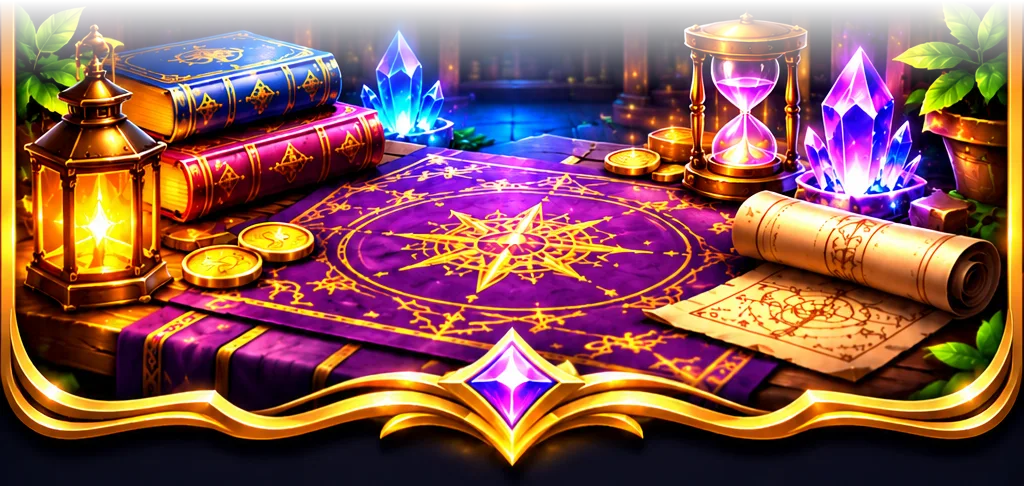
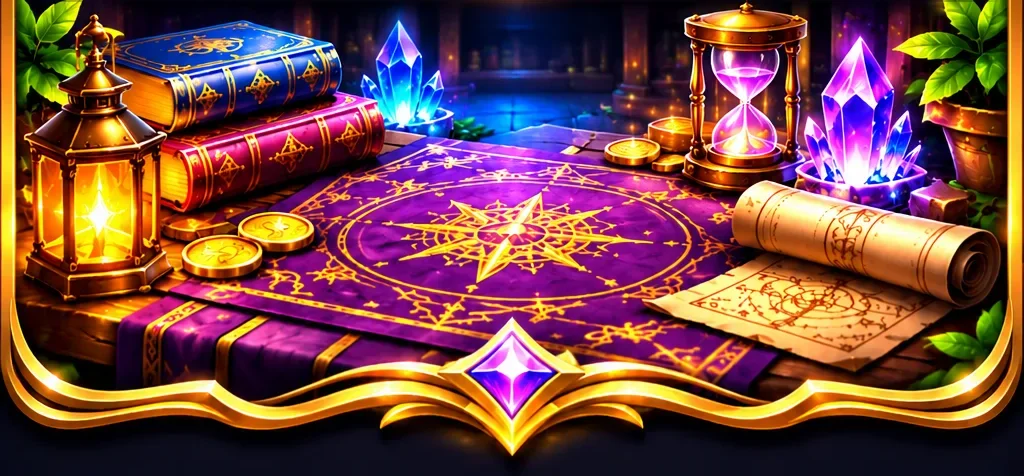
Boutique : la maquette complète sert de fond (cadre doré continu)
Claude-Session: https://claude.ai/code/session_01L5A7b5TFWkvreAmFd6UdR1

diff --git a/sw.js b/sw.js
@@ -1,4 +1,4 @@
-const C="qmqdev-v25";const F=["eq_cr.webp","mi1.webp","mi2.webp","mi3.webp","mi4.webp","mi5.webp","s_trophy.webp","ei_casque_1.webp","ei_casque_2.webp","ei_casque_3.webp","ei_casque_4.webp","ei_casque_5.webp","ei_ceinture_1.webp","ei_ceinture_2.webp","ei_ceinture_3.webp","ei_ceinture_4.webp","ei_ceinture_5.webp","ei_epaules_1.webp","ei_epaules_2.webp","ei_epaules_3.webp","ei_epaules_4.webp","ei_epaules_5.webp","ei_gants_1.webp","ei_gants_2.webp","ei_gants_3.webp","ei_gants_4.webp","ei_gants_5.webp","ei_jambes_1.webp","ei_jambes_2.webp","ei_jambes_3.webp","ei_jambes_4.webp","ei_jambes_5.webp","ei_pieds_1.webp","ei_pieds_2.webp","ei_pieds_3.webp","ei_pieds_4.webp","ei_pieds_5.webp","ei_torse_1.webp","ei_torse_2.webp","ei_torse_3.webp","ei_torse_4.webp","ei_torse_5.webp","eq_bg.webp","eq_ft.webp","eq_gr.webp","eq_hd.webp","eq_t1.webp","eq_t2.webp","ing.webp","za1.webp","za10.webp","za11.webp","za12.webp","za13.webp","za14.webp","za15.webp","za16.webp","za17.webp","za18.webp","za19.webp","za2.webp","za20.webp","za21.webp","za22.webp","za23.webp","za24.webp","za25.webp","za26.webp","za27.webp","za28.webp","za29.webp","za3.webp","za30.webp","za4.webp","za5.webp","za6.webp","za7.webp","za8.webp","za9.webp","zbk.webp","zco.webp","zf.webp","zgr.webp","zh.webp","zlk.webp","zs1.webp","zs10.webp","zs11.webp","zs12.webp","zs13.webp","zs14.webp","zs15.webp","zs16.webp","zs17.webp","zs18.webp","zs19.webp","zs2.webp","zs20.webp","zs21.webp","zs22.webp","zs23.webp","zs24.webp","zs25.webp","zs26.webp","zs27.webp","zs28.webp","zs29.webp","zs3.webp","zs30.webp","zs4.webp","zs5.webp","zs6.webp","zs7.webp","zs8.webp","zs9.webp","zti.webp","gw_lock.webp","gw_fam.webp","gw_gem.webp","eclat_essence.webp","eclat_runique.webp","eclat_astral.webp","eclat_eternel.webp","hn00.webp","hn01.webp","hn02.webp","hn03.webp","hn04.webp","hn05.webp","hn06.webp","hn07.webp","hn08.webp","hn09.webp","hn10.webp","hn11.webp","hn12.webp","hn13.webp","hn14.webp","hn15.webp","hn16.webp","hn17.webp","hn18.webp","hn19.webp","hn20.webp","hn21.webp","hn22.webp","hn23.webp","hn24.webp","hn25.webp","hn26.webp","hn27.webp","hn28.webp","hn29.webp","hn30.webp","hn31.webp","hn32.webp","hn33.webp","hn34.webp","hn35.webp","hn36.webp","hn37.webp","hn38.webp","hn39.webp","hn40.webp","hn41.webp","hn42.webp","hn43.webp","hn44.webp","hn45.webp","hn46.webp","hn47.webp","hn48.webp","hn49.webp","hn50.webp","hn51.webp","hn52.webp","hn53.webp","hn54.webp","hn55.webp","hn56.webp","hn57.webp","hn58.webp","hn59.webp","hn60.webp","hn61.webp","hn62.webp","hn63.webp","hn64.webp","hn65.webp","hn66.webp","hn67.webp","hn68.webp","hn69.webp","hn70.webp","hn71.webp","hn72.webp","hn73.webp","hn74.webp","hn75.webp","hn76.webp","hn77.webp","hn78.webp","hn79.webp","hn80.webp","hn81.webp","hn82.webp","hn83.webp","s_fr_c01.webp","s_fr_c02.webp","s_fr_c03.webp","s_fr_c04.webp","s_fr_c05.webp","s_fr_c06.webp","s_fr_c07.webp","s_fr_c08.webp","s_fr_c09.webp","s_fr_c10.webp","s_fr_c11.webp","s_fr_c12.webp","s_fr_c13.webp","s_fr_c14.webp","s_fr_c15.webp","s_fr_c16.webp","s_fr_c17.webp","s_fr_c18.webp","sb_l_obj.webp","sb_l_fr.webp","sb_l_ti.webp","sb_l_th.webp","sb_l0.webp","sb_r.webp","sb_r0.webp","sb_mid.webp","shop_head.webp","shop_foot.webp","mn_head.webp","dx_head.webp","dx_eye.webp","mt_zone.webp","mt_badge.webp","mt_dex.webp","mt_shop.webp","mt_inv.webp","mt_wheel.webp","mt_coop.webp","mt_sell.webp","mt_odds.webp","mt_news.webp","mt_blank1.webp","mt_blank2.webp","./", "index.html", "manifest.webmanifest", "icon-192.png", "icon-512.png","icon-maskable-192.png","icon-maskable-512.png", "i0.webp", "i1.webp", "i10.webp", "i100.webp", "i101.webp", "i102.webp", "i103.webp", "i104.webp", "i105.webp", "i106.webp", "i107.webp", "i108.webp", "i109.webp", "i11.webp", "i110.webp", "i111.webp", "i112.webp", "i113.webp", "i114.webp", "i115.webp", "i116.webp", "i117.webp", "i118.webp", "i119.webp", "i12.webp", "i120.webp", "i121.webp", "i122.webp", "i123.webp", "i124.webp", "i125.webp", "i126.webp", "i127.webp", "i128.webp", "i129.webp", "i13.webp", "i130.webp", "i131.webp", "i132.webp", "i133.webp", "i134.webp", "i135.webp", "i136.webp", "i137.webp", "i138.webp", "i139.webp", "i14.webp", "i140.webp", "i141.webp", "i142.webp", "i143.webp", "i144.webp", "i145.webp", "i146.webp", "i147.webp", "i148.webp", "i149.webp", "i15.webp", "i150.webp", "i151.webp", "i152.webp", "i153.webp", "i154.webp", "i155.webp", "i156.webp", "i157.webp", "i158.webp", "i159.webp", "i16.webp", "i160.webp", "i161.webp", "i162.webp", "i163.webp", "i164.webp", "i165.webp", "i166.webp", "i167.webp", "i168.webp", "i169.webp", "i17.webp", "i170.webp", "i171.webp", "i172.webp", "i173.webp", "i174.webp", "i175.webp", "i176.webp", "i177.webp", "i178.webp", "i179.webp", "i18.webp", "i180.webp", "i181.webp", "i182.webp", "i183.webp", "i184.webp", "i185.webp", "i186.webp", "i187.webp", "i188.webp", "i189.webp", "i19.webp", "i190.webp", "i191.webp", "i192.webp", "i193.webp", "i194.webp", "i195.webp", "i196.webp", "i197.webp", "i198.webp", "i199.webp", "i2.webp", "i20.webp", "i200.webp", "i201.webp", "i202.webp", "i203.webp", "i204.webp", "i205.webp", "i206.webp", "i207.webp", "i208.webp", "i209.jpg", "i21.webp", "i210.webp", "i211.webp", "i212.webp", "i213.webp", "i214.webp", "i215.webp", "i216.webp", "i217.webp", "i218.webp", "i219.webp", "i220.webp", "i221.webp", "i222.webp", "i223.webp", "i224.webp", "i225.webp", "i226.webp", "i227.webp", "i228.webp", "i229.webp", "i230.webp", "i231.webp", "i232.webp", "i233.webp", "i234.webp", "i235.webp", "i236.webp", "i237.webp", "bgdev.webp", "i22.webp", "i23.webp", "i24.webp", "i25.webp", "i26.webp", "i27.webp", "i28.webp", "i29.webp", "i3.webp", "i30.webp", "i31.webp", "i32.webp", "i33.webp", "i34.webp", "i35.webp", "i36.webp", "i37.webp", "i38.webp", "i39.webp", "i4.webp", "i40.webp", "i41.webp", "i42.webp", "i43.webp", "i44.webp", "i45.webp", "i46.webp", "i47.webp", "i48.webp", "i49.webp", "i5.webp", "i50.webp", "i51.webp", "i52.webp", "i53.webp", "i54.webp", "i55.webp", "i56.webp", "i57.webp", "i58.webp", "i59.webp", "i6.webp", "i60.webp", "i61.webp", "i62.webp", "i63.webp", "i64.webp", "i65.webp", "i66.webp", "i67.webp", "i68.webp", "i69.webp", "i7.webp", "i70.webp", "i71.webp", "i72.webp", "i73.webp", "i74.webp", "i75.webp", "i76.webp", "i77.webp", "i78.webp", "i79.webp", "i8.webp", "i80.webp", "i81.webp", "i82.webp", "i83.webp", "i84.webp", "i85.webp", "i86.webp", "i87.webp", "i88.webp", "i89.webp", "i9.webp", "i90.webp", "i91.webp", "i92.webp", "i93.webp", "i94.webp", "i95.webp", "i96.webp", "i97.webp", "i98.webp", "i99.webp"];
+const C="qmqdev-v26";const F=["eq_cr.webp","mi1.webp","mi2.webp","mi3.webp","mi4.webp","mi5.webp","s_trophy.webp","ei_casque_1.webp","ei_casque_2.webp","ei_casque_3.webp","ei_casque_4.webp","ei_casque_5.webp","ei_ceinture_1.webp","ei_ceinture_2.webp","ei_ceinture_3.webp","ei_ceinture_4.webp","ei_ceinture_5.webp","ei_epaules_1.webp","ei_epaules_2.webp","ei_epaules_3.webp","ei_epaules_4.webp","ei_epaules_5.webp","ei_gants_1.webp","ei_gants_2.webp","ei_gants_3.webp","ei_gants_4.webp","ei_gants_5.webp","ei_jambes_1.webp","ei_jambes_2.webp","ei_jambes_3.webp","ei_jambes_4.webp","ei_jambes_5.webp","ei_pieds_1.webp","ei_pieds_2.webp","ei_pieds_3.webp","ei_pieds_4.webp","ei_pieds_5.webp","ei_torse_1.webp","ei_torse_2.webp","ei_torse_3.webp","ei_torse_4.webp","ei_torse_5.webp","eq_bg.webp","eq_ft.webp","eq_gr.webp","eq_hd.webp","eq_t1.webp","eq_t2.webp","ing.webp","za1.webp","za10.webp","za11.webp","za12.webp","za13.webp","za14.webp","za15.webp","za16.webp","za17.webp","za18.webp","za19.webp","za2.webp","za20.webp","za21.webp","za22.webp","za23.webp","za24.webp","za25.webp","za26.webp","za27.webp","za28.webp","za29.webp","za3.webp","za30.webp","za4.webp","za5.webp","za6.webp","za7.webp","za8.webp","za9.webp","zbk.webp","zco.webp","zf.webp","zgr.webp","zh.webp","zlk.webp","zs1.webp","zs10.webp","zs11.webp","zs12.webp","zs13.webp","zs14.webp","zs15.webp","zs16.webp","zs17.webp","zs18.webp","zs19.webp","zs2.webp","zs20.webp","zs21.webp","zs22.webp","zs23.webp","zs24.webp","zs25.webp","zs26.webp","zs27.webp","zs28.webp","zs29.webp","zs3.webp","zs30.webp","zs4.webp","zs5.webp","zs6.webp","zs7.webp","zs8.webp","zs9.webp","zti.webp","gw_lock.webp","gw_fam.webp","gw_gem.webp","eclat_essence.webp","eclat_runique.webp","eclat_astral.webp","eclat_eternel.webp","hn00.webp","hn01.webp","hn02.webp","hn03.webp","hn04.webp","hn05.webp","hn06.webp","hn07.webp","hn08.webp","hn09.webp","hn10.webp","hn11.webp","hn12.webp","hn13.webp","hn14.webp","hn15.webp","hn16.webp","hn17.webp","hn18.webp","hn19.webp","hn20.webp","hn21.webp","hn22.webp","hn23.webp","hn24.webp","hn25.webp","hn26.webp","hn27.webp","hn28.webp","hn29.webp","hn30.webp","hn31.webp","hn32.webp","hn33.webp","hn34.webp","hn35.webp","hn36.webp","hn37.webp","hn38.webp","hn39.webp","hn40.webp","hn41.webp","hn42.webp","hn43.webp","hn44.webp","hn45.webp","hn46.webp","hn47.webp","hn48.webp","hn49.webp","hn50.webp","hn51.webp","hn52.webp","hn53.webp","hn54.webp","hn55.webp","hn56.webp","hn57.webp","hn58.webp","hn59.webp","hn60.webp","hn61.webp","hn62.webp","hn63.webp","hn64.webp","hn65.webp","hn66.webp","hn67.webp","hn68.webp","hn69.webp","hn70.webp","hn71.webp","hn72.webp","hn73.webp","hn74.webp","hn75.webp","hn76.webp","hn77.webp","hn78.webp","hn79.webp","hn80.webp","hn81.webp","hn82.webp","hn83.webp","s_fr_c01.webp","s_fr_c02.webp","s_fr_c03.webp","s_fr_c04.webp","s_fr_c05.webp","s_fr_c06.webp","s_fr_c07.webp","s_fr_c08.webp","s_fr_c09.webp","s_fr_c10.webp","s_fr_c11.webp","s_fr_c12.webp","s_fr_c13.webp","s_fr_c14.webp","s_fr_c15.webp","s_fr_c16.webp","s_fr_c17.webp","s_fr_c18.webp","sb_l_obj.webp","sb_l_fr.webp","sb_l_ti.webp","sb_l_th.webp","sb_l0.webp","sb_r.webp","sb_r0.webp","sb_mid.webp","shop_head.webp","shop_foot.webp","shop_mid.webp","mn_head.webp","dx_head.webp","dx_eye.webp","mt_zone.webp","mt_badge.webp","mt_dex.webp","mt_shop.webp","mt_inv.webp","mt_wheel.webp","mt_coop.webp","mt_sell.webp","mt_odds.webp","mt_news.webp","mt_blank1.webp","mt_blank2.webp","./", "index.html", "manifest.webmanifest", "icon-192.png", "icon-512.png","icon-maskable-192.png","icon-maskable-512.png", "i0.webp", "i1.webp", "i10.webp", "i100.webp", "i101.webp", "i102.webp", "i103.webp", "i104.webp", "i105.webp", "i106.webp", "i107.webp", "i108.webp", "i109.webp", "i11.webp", "i110.webp", "i111.webp", "i112.webp", "i113.webp", "i114.webp", "i115.webp", "i116.webp", "i117.webp", "i118.webp", "i119.webp", "i12.webp", "i120.webp", "i121.webp", "i122.webp", "i123.webp", "i124.webp", "i125.webp", "i126.webp", "i127.webp", "i128.webp", "i129.webp", "i13.webp", "i130.webp", "i131.webp", "i132.webp", "i133.webp", "i134.webp", "i135.webp", "i136.webp", "i137.webp", "i138.webp", "i139.webp", "i14.webp", "i140.webp", "i141.webp", "i142.webp", "i143.webp", "i144.webp", "i145.webp", "i146.webp", "i147.webp", "i148.webp", "i149.webp", "i15.webp", "i150.webp", "i151.webp", "i152.webp", "i153.webp", "i154.webp", "i155.webp", "i156.webp", "i157.webp", "i158.webp", "i159.webp", "i16.webp", "i160.webp", "i161.webp", "i162.webp", "i163.webp", "i164.webp", "i165.webp", "i166.webp", "i167.webp", "i168.webp", "i169.webp", "i17.webp", "i170.webp", "i171.webp", "i172.webp", "i173.webp", "i174.webp", "i175.webp", "i176.webp", "i177.webp", "i178.webp", "i179.webp", "i18.webp", "i180.webp", "i181.webp", "i182.webp", "i183.webp", "i184.webp", "i185.webp", "i186.webp", "i187.webp", "i188.webp", "i189.webp", "i19.webp", "i190.webp", "i191.webp", "i192.webp", "i193.webp", "i194.webp", "i195.webp", "i196.webp", "i197.webp", "i198.webp", "i199.webp", "i2.webp", "i20.webp", "i200.webp", "i201.webp", "i202.webp", "i203.webp", "i204.webp", "i205.webp", "i206.webp", "i207.webp", "i208.webp", "i209.jpg", "i21.webp", "i210.webp", "i211.webp", "i212.webp", "i213.webp", "i214.webp", "i215.webp", "i216.webp", "i217.webp", "i218.webp", "i219.webp", "i220.webp", "i221.webp", "i222.webp", "i223.webp", "i224.webp", "i225.webp", "i226.webp", "i227.webp", "i228.webp", "i229.webp", "i230.webp", "i231.webp", "i232.webp", "i233.webp", "i234.webp", "i235.webp", "i236.webp", "i237.webp", "bgdev.webp", "i22.webp", "i23.webp", "i24.webp", "i25.webp", "i26.webp", "i27.webp", "i28.webp", "i29.webp", "i3.webp", "i30.webp", "i31.webp", "i32.webp", "i33.webp", "i34.webp", "i35.webp", "i36.webp", "i37.webp", "i38.webp", "i39.webp", "i4.webp", "i40.webp", "i41.webp", "i42.webp", "i43.webp", "i44.webp", "i45.webp", "i46.webp", "i47.webp", "i48.webp", "i49.webp", "i5.webp", "i50.webp", "i51.webp", "i52.webp", "i53.webp", "i54.webp", "i55.webp", "i56.webp", "i57.webp", "i58.webp", "i59.webp", "i6.webp", "i60.webp", "i61.webp", "i62.webp", "i63.webp", "i64.webp", "i65.webp", "i66.webp", "i67.webp", "i68.webp", "i69.webp", "i7.webp", "i70.webp", "i71.webp", "i72.webp", "i73.webp", "i74.webp", "i75.webp", "i76.webp", "i77.webp", "i78.webp", "i79.webp", "i8.webp", "i80.webp", "i81.webp", "i82.webp", "i83.webp", "i84.webp", "i85.webp", "i86.webp", "i87.webp", "i88.webp", "i89.webp", "i9.webp", "i90.webp", "i91.webp", "i92.webp", "i93.webp", "i94.webp", "i95.webp", "i96.webp", "i97.webp", "i98.webp", "i99.webp"];
 self.addEventListener("install",e=>{e.waitUntil(caches.open(C).then(c=>Promise.all(F.map(u=>c.add(new Request(u,{cache:"reload"})).catch(()=>0)))).then(()=>self.skipWaiting()))});
 self.addEventListener("activate",e=>{e.waitUntil(caches.keys().then(k=>Promise.all(k.filter(x=>/^qmqdev-/.test(x)&&x!==C).map(x=>caches.delete(x)))).then(()=>self.clients.claim()))});
 self.addEventListener("fetch",e=>{if(e.request.method!=="GET"||new URL(e.request.url).origin!==location.origin)return;const pg=e.request.mode==="navigate"||/\.(html|webmanifest|js)$/.test(new URL(e.request.url).pathname)||new URL(e.request.url).pathname.endsWith("/");e.respondWith(fetch(e.request,pg?{cache:"no-cache"}:undefined).then(r=>{if(r&&r.ok){const y=r.clone();caches.open(C).then(c=>c.put(e.request,y))}return r}).catch(()=>caches.match(e.request,{ignoreSearch:true}).then(r=>r||caches.match("./"))))});

diff --git a/index.html b/index.html
@@ -652,7 +652,7 @@ function useBL(){if(!G||!G.mx||G.mhp<=0||!$("bl"))return;if(!ST.dev)S.inv.bl=Mat
 function useFF(){S.inv.fh--;G.ffu=true;save();sh([...document.querySelectorAll(".opt")].filter((b,j)=>!G.cur[j][1])).slice(0,2).forEach(b=>{b.disabled=true;b.style.opacity=.25});$("ff").remove()}
 {const st=document.createElement("style");st.textContent=`.gbar{position:relative;display:flex;align-items:center;height:68px;margin:0}.gbar::before{content:"";position:absolute;top:0;bottom:0;left:70px;right:40px;background:url(sb_mid.webp) center/100% 100% no-repeat}.gbar .gbl0~.gbt{}.gbar:has(.gbl0)::before{left:34px}.gbar .gbl{position:absolute;left:0;top:0;height:100%;aspect-ratio:345/158;background:center/100% 100% no-repeat}.gbar .gbl0{aspect-ratio:80/158}.gbar .gbr{position:absolute;right:0;top:0;height:100%;aspect-ratio:185/158;background:url(sb_r.webp) center/100% 100% no-repeat;transition:transform .25s}.gbar .gbt{position:relative;flex:1;text-align:center;padding-left:34%;padding-right:22%;font-family:Georgia,"Times New Roman",serif;font-weight:900;font-size:1.25rem;line-height:1.05;color:#fff1c2;text-shadow:0 2px 0 #6b3d00,0 0 8px rgba(255,200,80,.55),0 2px 6px #000}.gbar .gbl0~.gbt{padding-left:14%}.shcat[open] .gbr{transform:scaleY(-1)}.shcat{margin:10px 0;border-radius:0 0 16px 16px;background:none;border:0;overflow:visible}.shcat>summary{list-style:none;cursor:pointer;padding:0}.shcat>summary::-webkit-details-marker{display:none}.shcat>.shb{margin:-6px 10px 0;padding:14px 12px 12px;border:2px solid #c9a24a;border-top:0;border-radius:0 0 16px 16px;background:linear-gradient(180deg,#f7ecd2,#ead8b0);box-shadow:0 4px 12px rgba(0,0,0,.35)}.shcat .row span,.shcat .row b{color:#3a2508!important;text-shadow:none!important}.shcat .row small{color:#6b5232!important}.shcat .row{border-bottom:1px solid rgba(120,85,30,.18);padding-bottom:8px}.shcat .row:last-child{border-bottom:0}.shcat .shg{margin-top:4px}.thmini{display:block;width:62px;height:96px;margin:0 auto 4px;border-radius:10px;background:center/cover no-repeat;border:2px solid rgba(255,220,140,.8);box-shadow:0 2px 6px rgba(0,0,0,.4)}.thnm{display:block;font-size:.72rem;font-weight:800;line-height:1.1}`;document.head.appendChild(st)}
 window.WTH={menu:()=>`<span class="gT" style="top:57%;height:28%">Menu</span>`,dex:()=>`<span class="gT" style="top:41%;height:31%">Monstrodex</span><span class="gT gTs" style="top:75%;height:21%;left:36%;right:36%">${S.dex.length} / ${MD.length}</span>`,shop:()=>`<span class="shT">Boutique</span><span class="shC"><img src="i209.jpg" alt="" onerror="this.remove()">🪙 ${ST.dev&&!window.PVW?"∞":(S.coins||0)}</span>`};
-{const st=document.createElement("style");st.textContent=`[data-k="menu"] .wh,[data-k="dex"] .wh,[data-k="shop"] .wh{position:relative;flex:none;display:block!important;padding:0!important;border:0!important;border-radius:0!important;background:url(shop_head.webp) top center/100% 100% no-repeat!important;aspect-ratio:1024/335;box-shadow:none!important;backdrop-filter:none!important;z-index:3}html body .win[data-k="shop"] .wp{background:url(shop_foot.webp) bottom center/100% auto no-repeat,linear-gradient(180deg,#0d1238 0%,#120c33 55%,#1a0d3e 100%)!important;backdrop-filter:none!important;-webkit-backdrop-filter:none!important}html body .win[data-k="shop"] .wb{background-color:transparent!important;backdrop-filter:none!important}[data-k="menu"] .wh{background-image:url(mn_head.webp)!important;aspect-ratio:1024/218}[data-k="dex"] .wh{background-image:url(dx_head.webp)!important;aspect-ratio:1024/268}[data-k="menu"] #wt,[data-k="dex"] #wt,[data-k="shop"] #wt{position:absolute;inset:0;display:block}.gT{position:absolute;left:30%;right:30%;display:flex;align-items:center;justify-content:center;font-family:Georgia,"Times New Roman",serif;font-weight:900;font-size:clamp(1.1rem,5.6vw,2.1rem);line-height:1;color:#ffe9a8;text-shadow:0 2px 0 #6b3d00,0 0 10px rgba(255,200,80,.6),0 3px 6px #000;white-space:nowrap}.gTs{font-size:clamp(1rem,5vw,1.7rem)}[data-k="menu"] .wx,[data-k="dex"] .wx{position:absolute!important;right:3%!important;width:10.5%!important;height:auto!important;aspect-ratio:1;opacity:0!important;margin:0!important;z-index:4}[data-k="menu"] .wx{top:38%!important}[data-k="dex"] .wx{top:40%!important}[data-k="shop"] .shT{position:absolute;left:28%;right:28%;top:37%;height:21%;display:flex;align-items:center;justify-content:center;font-family:Georgia,"Times New Roman",serif;font-weight:900;font-size:clamp(1.3rem,6.5vw,2.4rem);color:#fff1c2;text-shadow:0 2px 0 #6b3d00,0 0 10px rgba(255,200,80,.6),0 3px 6px #000}[data-k="shop"] .shC{position:absolute;left:50%;top:72%;transform:translateX(-50%);display:flex;align-items:center;gap:6px;padding:4px 18px;border-radius:999px;background:linear-gradient(180deg,#2a1a08,#140b02);border:2px solid #e6b422;box-shadow:0 0 10px rgba(230,180,34,.6);font-weight:900;font-size:clamp(1rem,4.6vw,1.5rem);color:#fff1c2;white-space:nowrap}[data-k="shop"] .shC img{display:none}[data-k="shop"] .wx{position:absolute!important;right:2.5%!important;top:22%!important;width:11%!important;height:auto!important;aspect-ratio:1;opacity:0!important;margin:0!important;z-index:4}`;document.head.appendChild(st)}
+{const st=document.createElement("style");st.textContent=`[data-k="menu"] .wh,[data-k="dex"] .wh,[data-k="shop"] .wh{position:relative;flex:none;display:block!important;padding:0!important;border:0!important;border-radius:0!important;background:url(shop_head.webp) top center/100% 100% no-repeat!important;aspect-ratio:1024/335;box-shadow:none!important;backdrop-filter:none!important;z-index:3}html body .win[data-k="shop"] .wp{border:0!important;border-radius:0!important;box-shadow:none!important;overflow:hidden;background:url(shop_foot.webp) bottom center/100% auto no-repeat,url(shop_mid.webp) center/100% 100% no-repeat,#0a0c26!important;backdrop-filter:none!important;-webkit-backdrop-filter:none!important}html body .win[data-k="shop"] .wb{background:transparent!important;backdrop-filter:none!important;padding-left:5%!important;padding-right:5%!important;padding-bottom:42vw!important}[data-k="menu"] .wh{background-image:url(mn_head.webp)!important;aspect-ratio:1024/218}[data-k="dex"] .wh{background-image:url(dx_head.webp)!important;aspect-ratio:1024/268}[data-k="menu"] #wt,[data-k="dex"] #wt,[data-k="shop"] #wt{position:absolute;inset:0;display:block}.gT{position:absolute;left:30%;right:30%;display:flex;align-items:center;justify-content:center;font-family:Georgia,"Times New Roman",serif;font-weight:900;font-size:clamp(1.1rem,5.6vw,2.1rem);line-height:1;color:#ffe9a8;text-shadow:0 2px 0 #6b3d00,0 0 10px rgba(255,200,80,.6),0 3px 6px #000;white-space:nowrap}.gTs{font-size:clamp(1rem,5vw,1.7rem)}[data-k="menu"] .wx,[data-k="dex"] .wx{position:absolute!important;right:3%!important;width:10.5%!important;height:auto!important;aspect-ratio:1;opacity:0!important;margin:0!important;z-index:4}[data-k="menu"] .wx{top:38%!important}[data-k="dex"] .wx{top:40%!important}[data-k="shop"] .shT{position:absolute;left:28%;right:28%;top:37%;height:21%;display:flex;align-items:center;justify-content:center;font-family:Georgia,"Times New Roman",serif;font-weight:900;font-size:clamp(1.3rem,6.5vw,2.4rem);color:#fff1c2;text-shadow:0 2px 0 #6b3d00,0 0 10px rgba(255,200,80,.6),0 3px 6px #000}[data-k="shop"] .shC{position:absolute;left:50%;top:72%;transform:translateX(-50%);display:flex;align-items:center;gap:6px;padding:4px 18px;border-radius:999px;background:linear-gradient(180deg,#2a1a08,#140b02);border:2px solid #e6b422;box-shadow:0 0 10px rgba(230,180,34,.6);font-weight:900;font-size:clamp(1rem,4.6vw,1.5rem);color:#fff1c2;white-space:nowrap}[data-k="shop"] .shC img{display:none}[data-k="shop"] .wx{position:absolute!important;right:2.5%!important;top:22%!important;width:11%!important;height:auto!important;aspect-ratio:1;opacity:0!important;margin:0!important;z-index:4}`;document.head.appendChild(st)}
 {const st=document.createElement("style");st.textContent=`html body main #app > .card.parch.qcd.qcd,html body #app .card.qcd,html body #app .chtab,html body #app #hcard>button.btn.big,html body #app .btn.big[onclick*="openWin('hero')"]{background:rgba(255,243,210,.55)!important;border:2px solid rgba(227,184,74,.95)!important;box-shadow:inset 0 0 0 2px rgba(255,243,207,.6),0 4px 10px rgba(0,0,0,.3)!important;backdrop-filter:none!important}html body main #app > .card.parch.qcd.qcd,html body main #app > .card.parch.qcd.qcd *,html body #app .card.qcd,html body #app .card.qcd *,html body #app .chtab summary,html body #app .chtab summary *,html body #app .btn.big[onclick*="openWin('hero')"]{color:#2a1608!important;text-shadow:0 1px 0 rgba(255,255,255,.55)!important}html body #app .chtab summary span{color:#5a3a12!important}`;document.head.appendChild(st)}
 {const st=document.createElement("style");st.textContent=`html body .win[data-k="menu"] .wb .btn,html body .win[data-k="menu"] .wb .dvb{border-radius:999px!important;border:3px solid #e6b422!important;background:linear-gradient(180deg,#1d4fb8,#0b2a78 55%,#08205e)!important;box-shadow:0 0 0 2px #7a4f00,0 0 12px rgba(80,150,255,.45),inset 0 2px 6px rgba(140,200,255,.45)!important;color:#fff1c2!important;font-family:Georgia,"Times New Roman",serif!important;font-weight:700!important;text-shadow:0 2px 3px #000!important;backdrop-filter:none!important}html body .win[data-k="menu"] .wb .btn.big{background:linear-gradient(180deg,#8a4bff,#5a1fc8 55%,#3d1192)!important;box-shadow:0 0 0 2px #7a4f00,0 0 14px rgba(170,110,255,.6),inset 0 2px 6px rgba(220,190,255,.5)!important}html body .win[data-k="menu"] .wb .btn.off,html body .win[data-k="menu"] .wb .dvb.off{filter:saturate(.6) brightness(.85)}html body .win[data-k="menu"] .wb .pill{border:3px solid #e6b422!important;background:radial-gradient(circle at 50% 35%,#3a5fd0,#0b2a78 70%)!important;box-shadow:0 0 0 2px #7a4f00,0 0 10px rgba(80,150,255,.5)!important}html body .win[data-k="menu"] .wb .pill.off{filter:grayscale(.7) brightness(.7)}html body .win[data-k="menu"] .wb .plabel{background:linear-gradient(90deg,#5a27c4,#33137f)!important;border:2px solid #e6b422!important;border-radius:12px;padding:7px 12px;color:#ffe28a!important;font-family:Georgia,serif;text-shadow:0 1px 3px #000!important}`;document.head.appendChild(st)}
 let SHC={};const SHI={obj:"obj",fr:"fr",ti:"ti",th:"th"};
